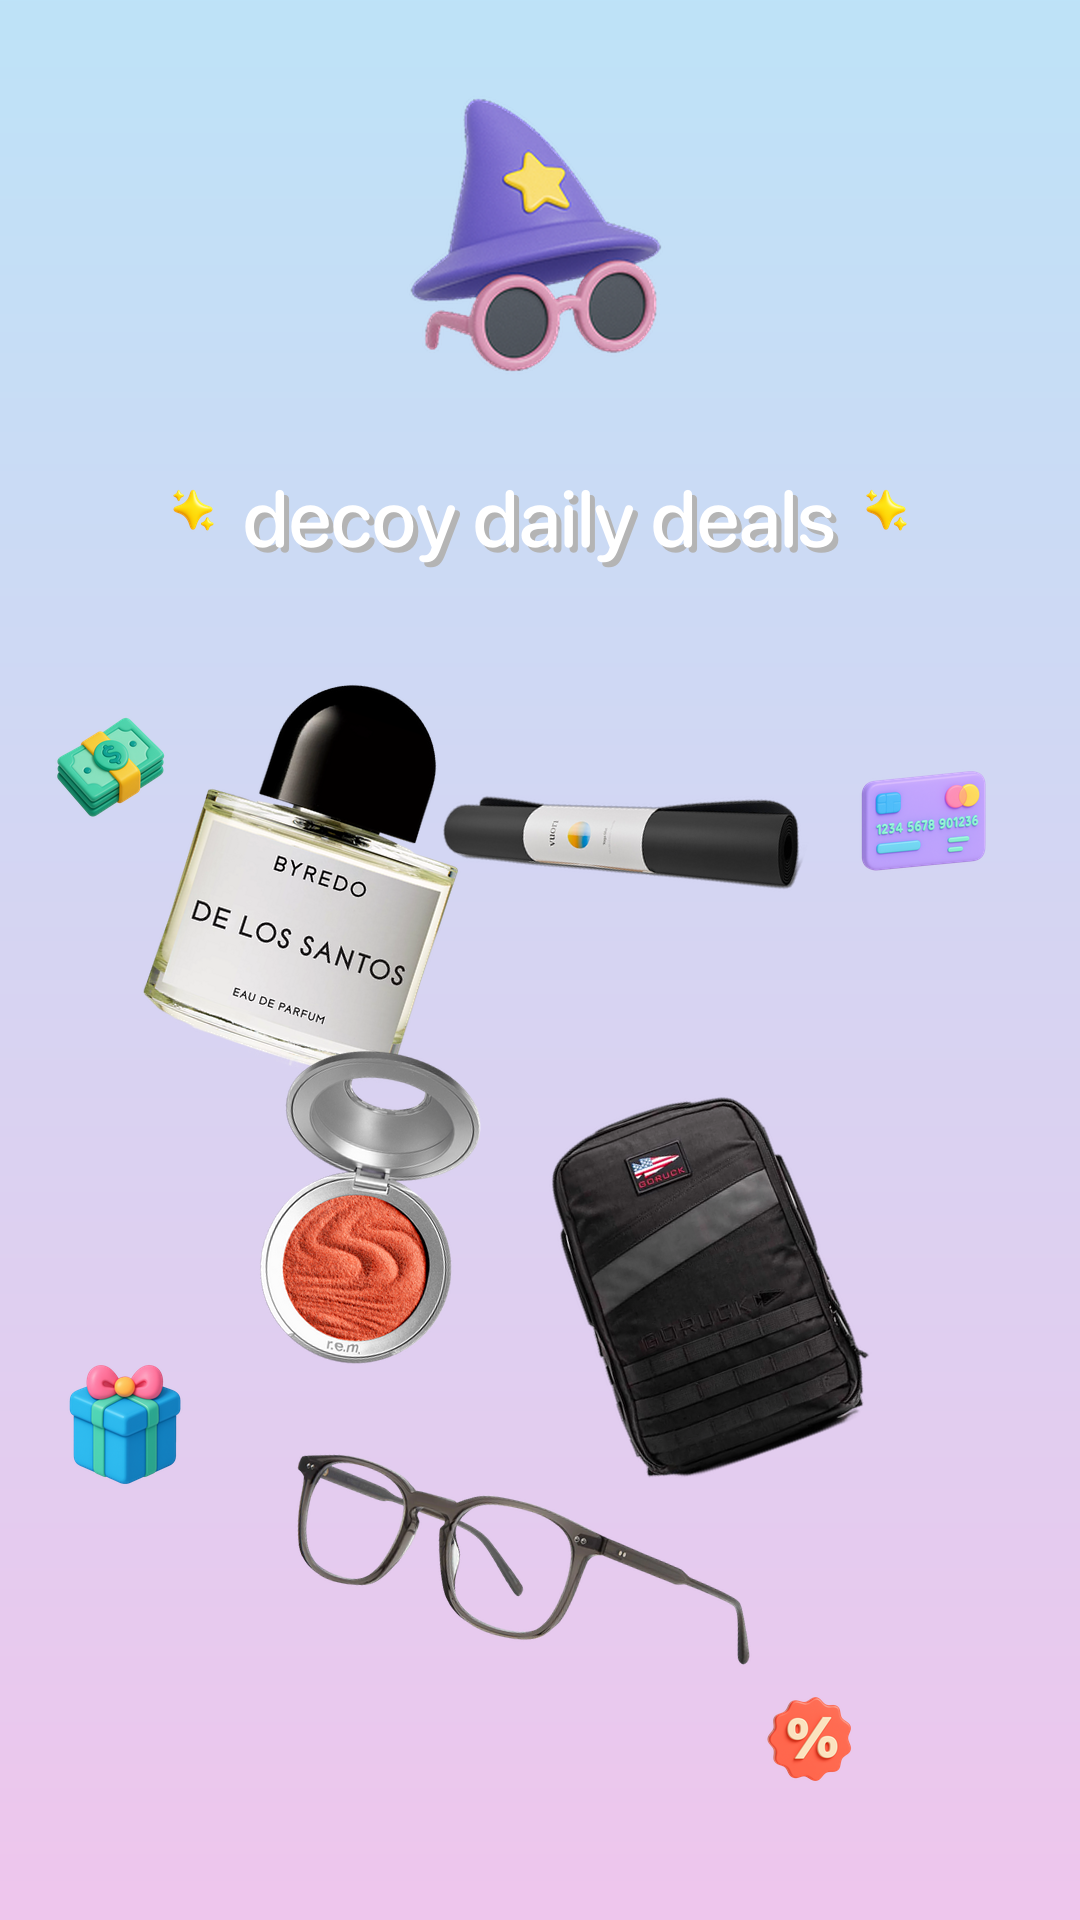
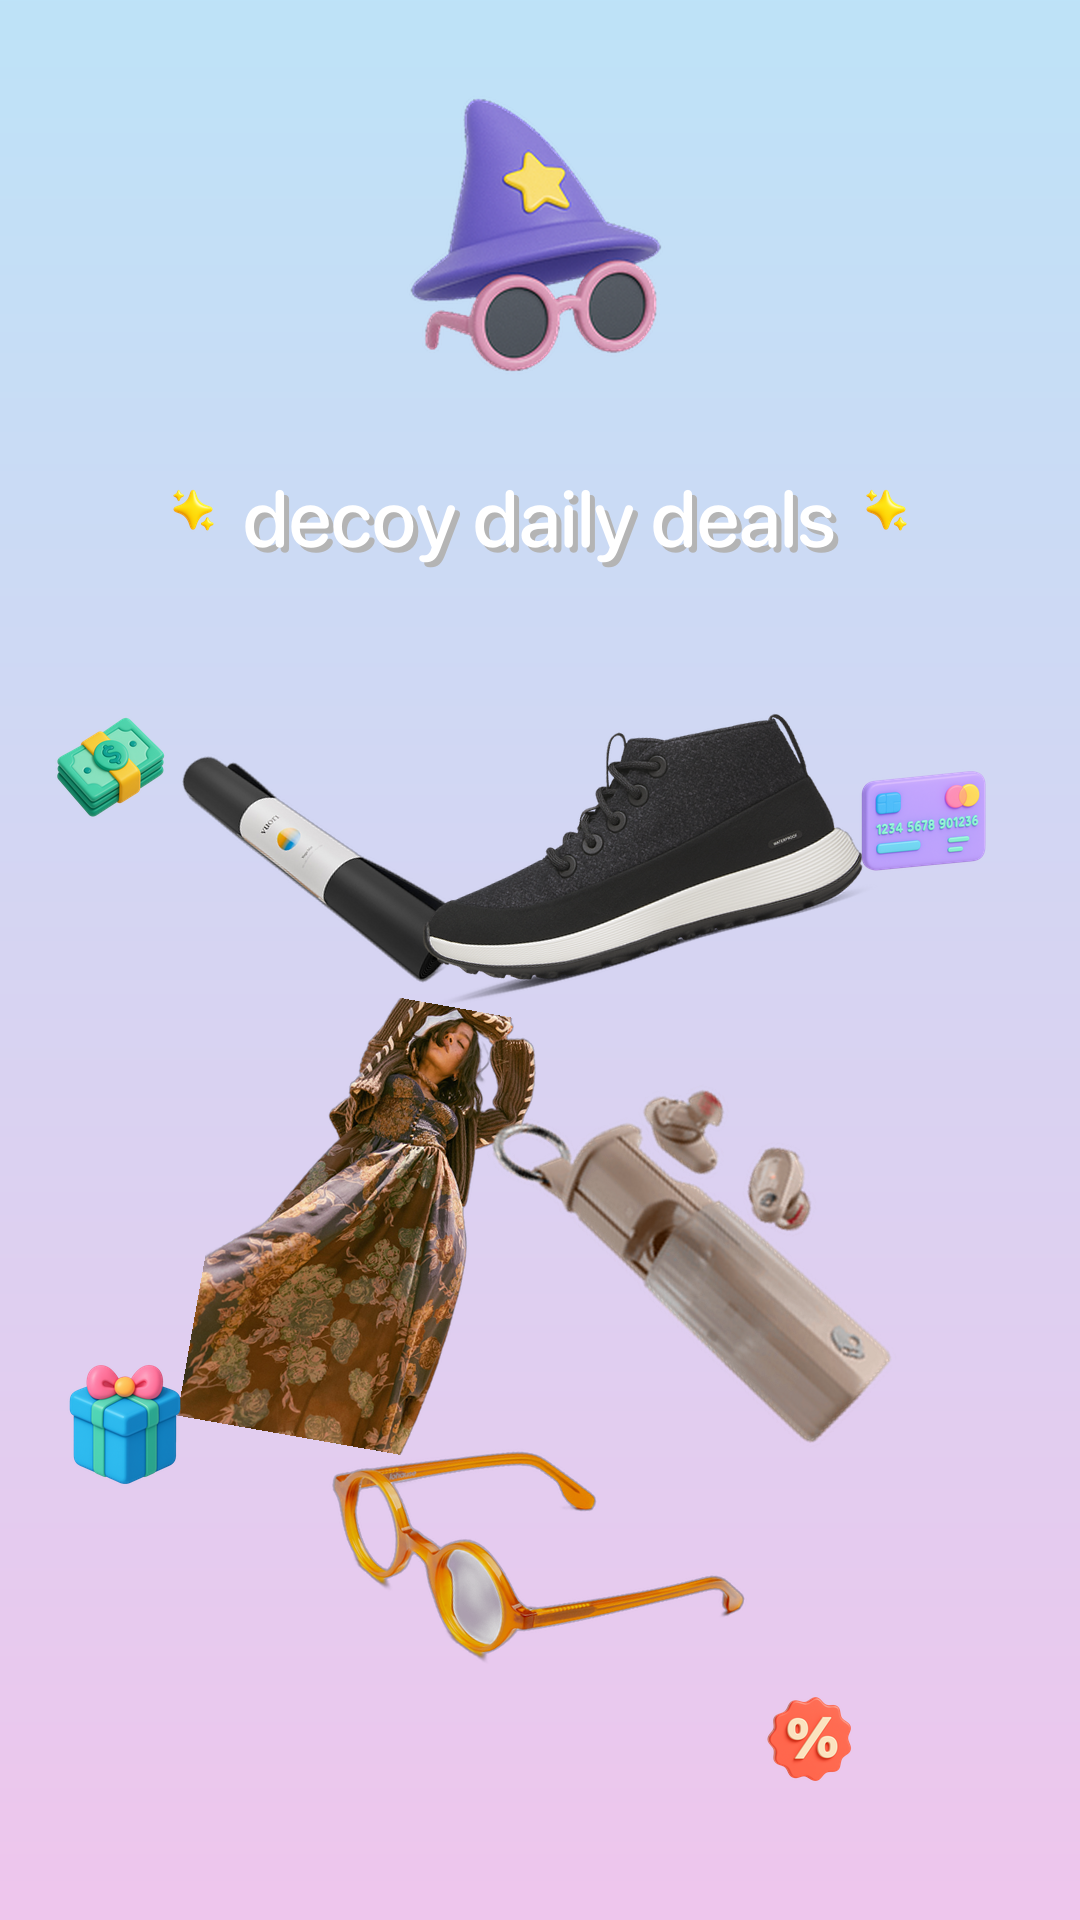
Add: Skullcandy earbuds image for 10-29 posts
- Updated Skullcandy individual product image with provided earbuds photo
- Updated cover page to use new Skullcandy earbuds image
- Updated end page to use new Skullcandy earbuds image
- Added support for webp format images
- Much better product visibility with detailed earbuds

🤖 Generated with [Claude Code](https://claude.com/claude-code)

Changed region(s): [[0.1222, 0.3438, 0.825, 0.875]]

diff --git a/generate_cover_page.py b/generate_cover_page.py
@@ -233,6 +233,15 @@ def create_cover_page(deals, font_path):
                     continue
                 except:
                     image_url = image_urls[0]
+            elif brand == 'Skullcandy':
+                # Use local high-quality image (already has proper background)
+                try:
+                    product_img = Image.open('generated_images/2025-10-29/skullcandy.webp')
+                    product_images.append(product_img)
+                    print(f"    Processed product {i+1}/{min(7, len(deals))}")
+                    continue
+                except:
+                    image_url = image_urls[0]
             else:
                 image_url = image_urls[0]
 

diff --git a/generate_end_page.py b/generate_end_page.py
@@ -246,6 +246,15 @@ def create_end_page(deals, font_path):
                     continue
                 except:
                     image_url = image_urls[0]
+            elif brand == 'Skullcandy':
+                # Use local high-quality image (already has proper background)
+                try:
+                    product_img = Image.open('generated_images/2025-10-29/skullcandy.webp')
+                    product_images.append(product_img)
+                    print(f"    Processed product {i+1}/{min(5, len(deals))}")
+                    continue
+                except:
+                    image_url = image_urls[0]
             else:
                 image_url = image_urls[0]
 
